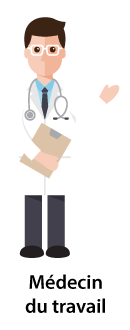
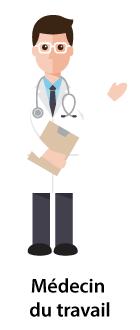
[fix:jeu9] Transparent background and add name for person's sprite

Changed region(s): [[0.1538, 0.0303, 0.5846, 0.7879], [0.1846, 0.8182, 0.8308, 0.9697], [0.7692, 0.2424, 0.9231, 0.3333]]

diff --git a/src/games/9/components/game/objects/Step/Step.js b/src/games/9/components/game/objects/Step/Step.js
@@ -62,7 +62,7 @@ export default class Step extends BasicGameObject {
             this.info = this.game.add.text(this.game.world.centerX, this.game.world.centerY + 200 * this.game.SCALE, this.infoText, {
                 font: 'Arial', 
                 fontSize: 25*this.game.SCALE, 
-                fill: '#073e11', 
+                fill: '#000000',
                 align: "center",
                 fontWeight: 'bold'
             });
